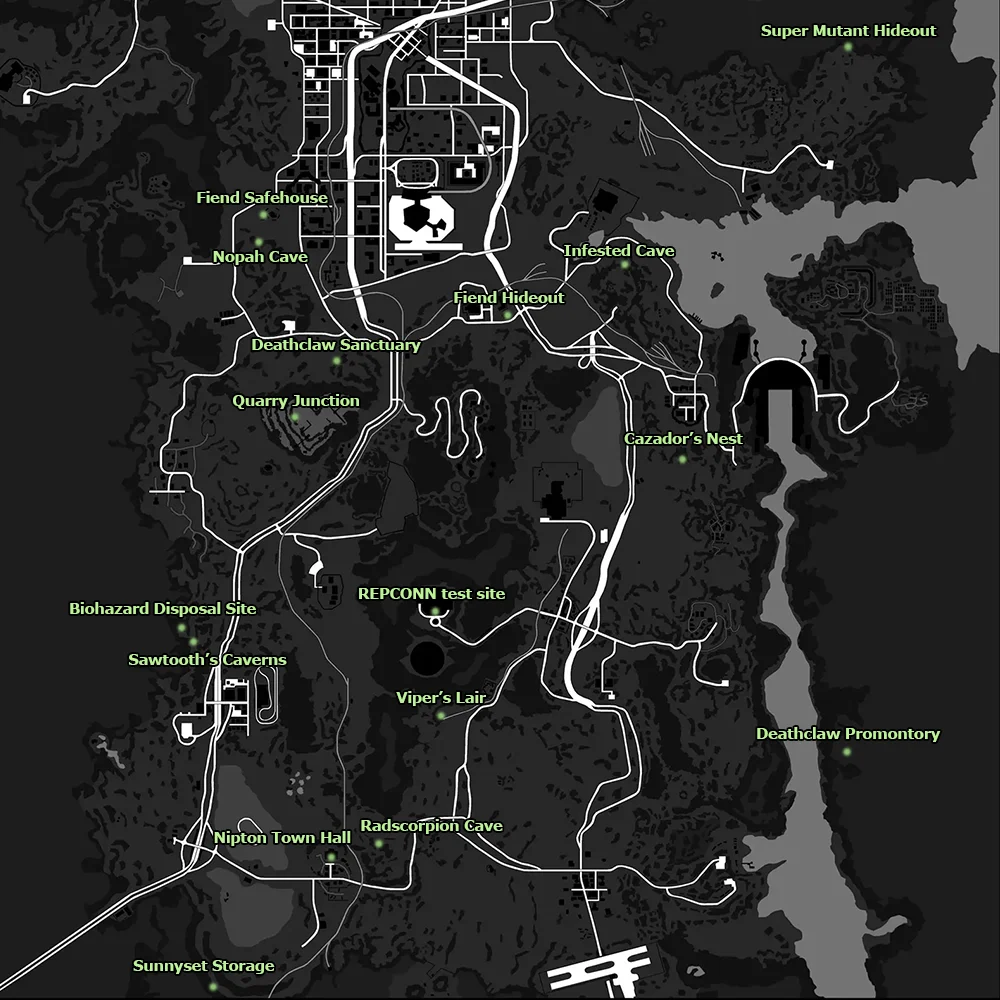
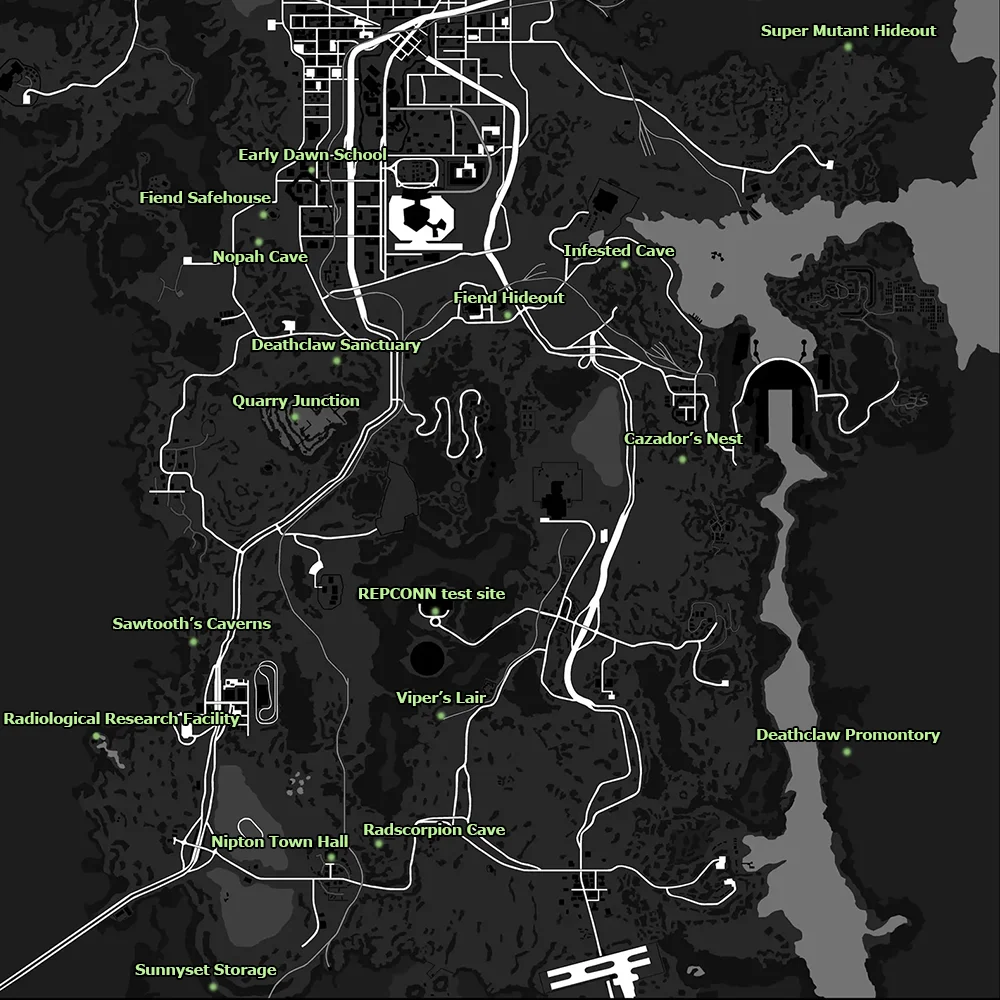
GRA

diff --git a/docs/Performance.md b/docs/Performance.md
@@ -14,7 +14,7 @@ By default you will not be able to Alt-Tab in **Fullscreen Mode**! In order to s
 
 :::
 
-In general, you should try to install **DXVK** as it will fix your Alt-Tabbing issues and typically improves performance. However, the installation and compatiblity of this depends entirely on your hardware. Read [DXVK](https://performance.moddinglinked.com/falloutnv.html#DXVK) for more information including installation and configuration. 
+In general, you should try to install **DXVK** as it will fix your Alt-Tabbing issues and typically improves performance. However, the installation and compatiblity depends entirely on your hardware. Read [DXVK](https://performance.moddinglinked.com/falloutnv.html#DXVK) for more information including installation and configuration. 
 
 
 

diff --git a/docs/UsefulInformation.md b/docs/UsefulInformation.md
@@ -52,6 +52,7 @@ You will not get the **Courier's Stash** DLC weapons when you start a new charac
 - **Sleepytyme:** <span class="hover-spoiler">Fiend Hideout</span>
 - **The Smitty Special:** <span class="hover-spoiler">Fiend Safehouse, inside the Fiend Bunker</span>
 - **Two-Step Goodbye:** <span class="hover-spoiler">Super Mutant Hideout</span>
+- **Greased Lightning:** <span class="hover-spoiler">Early Dawn School Lower Level</span>
 
 </p>
 
